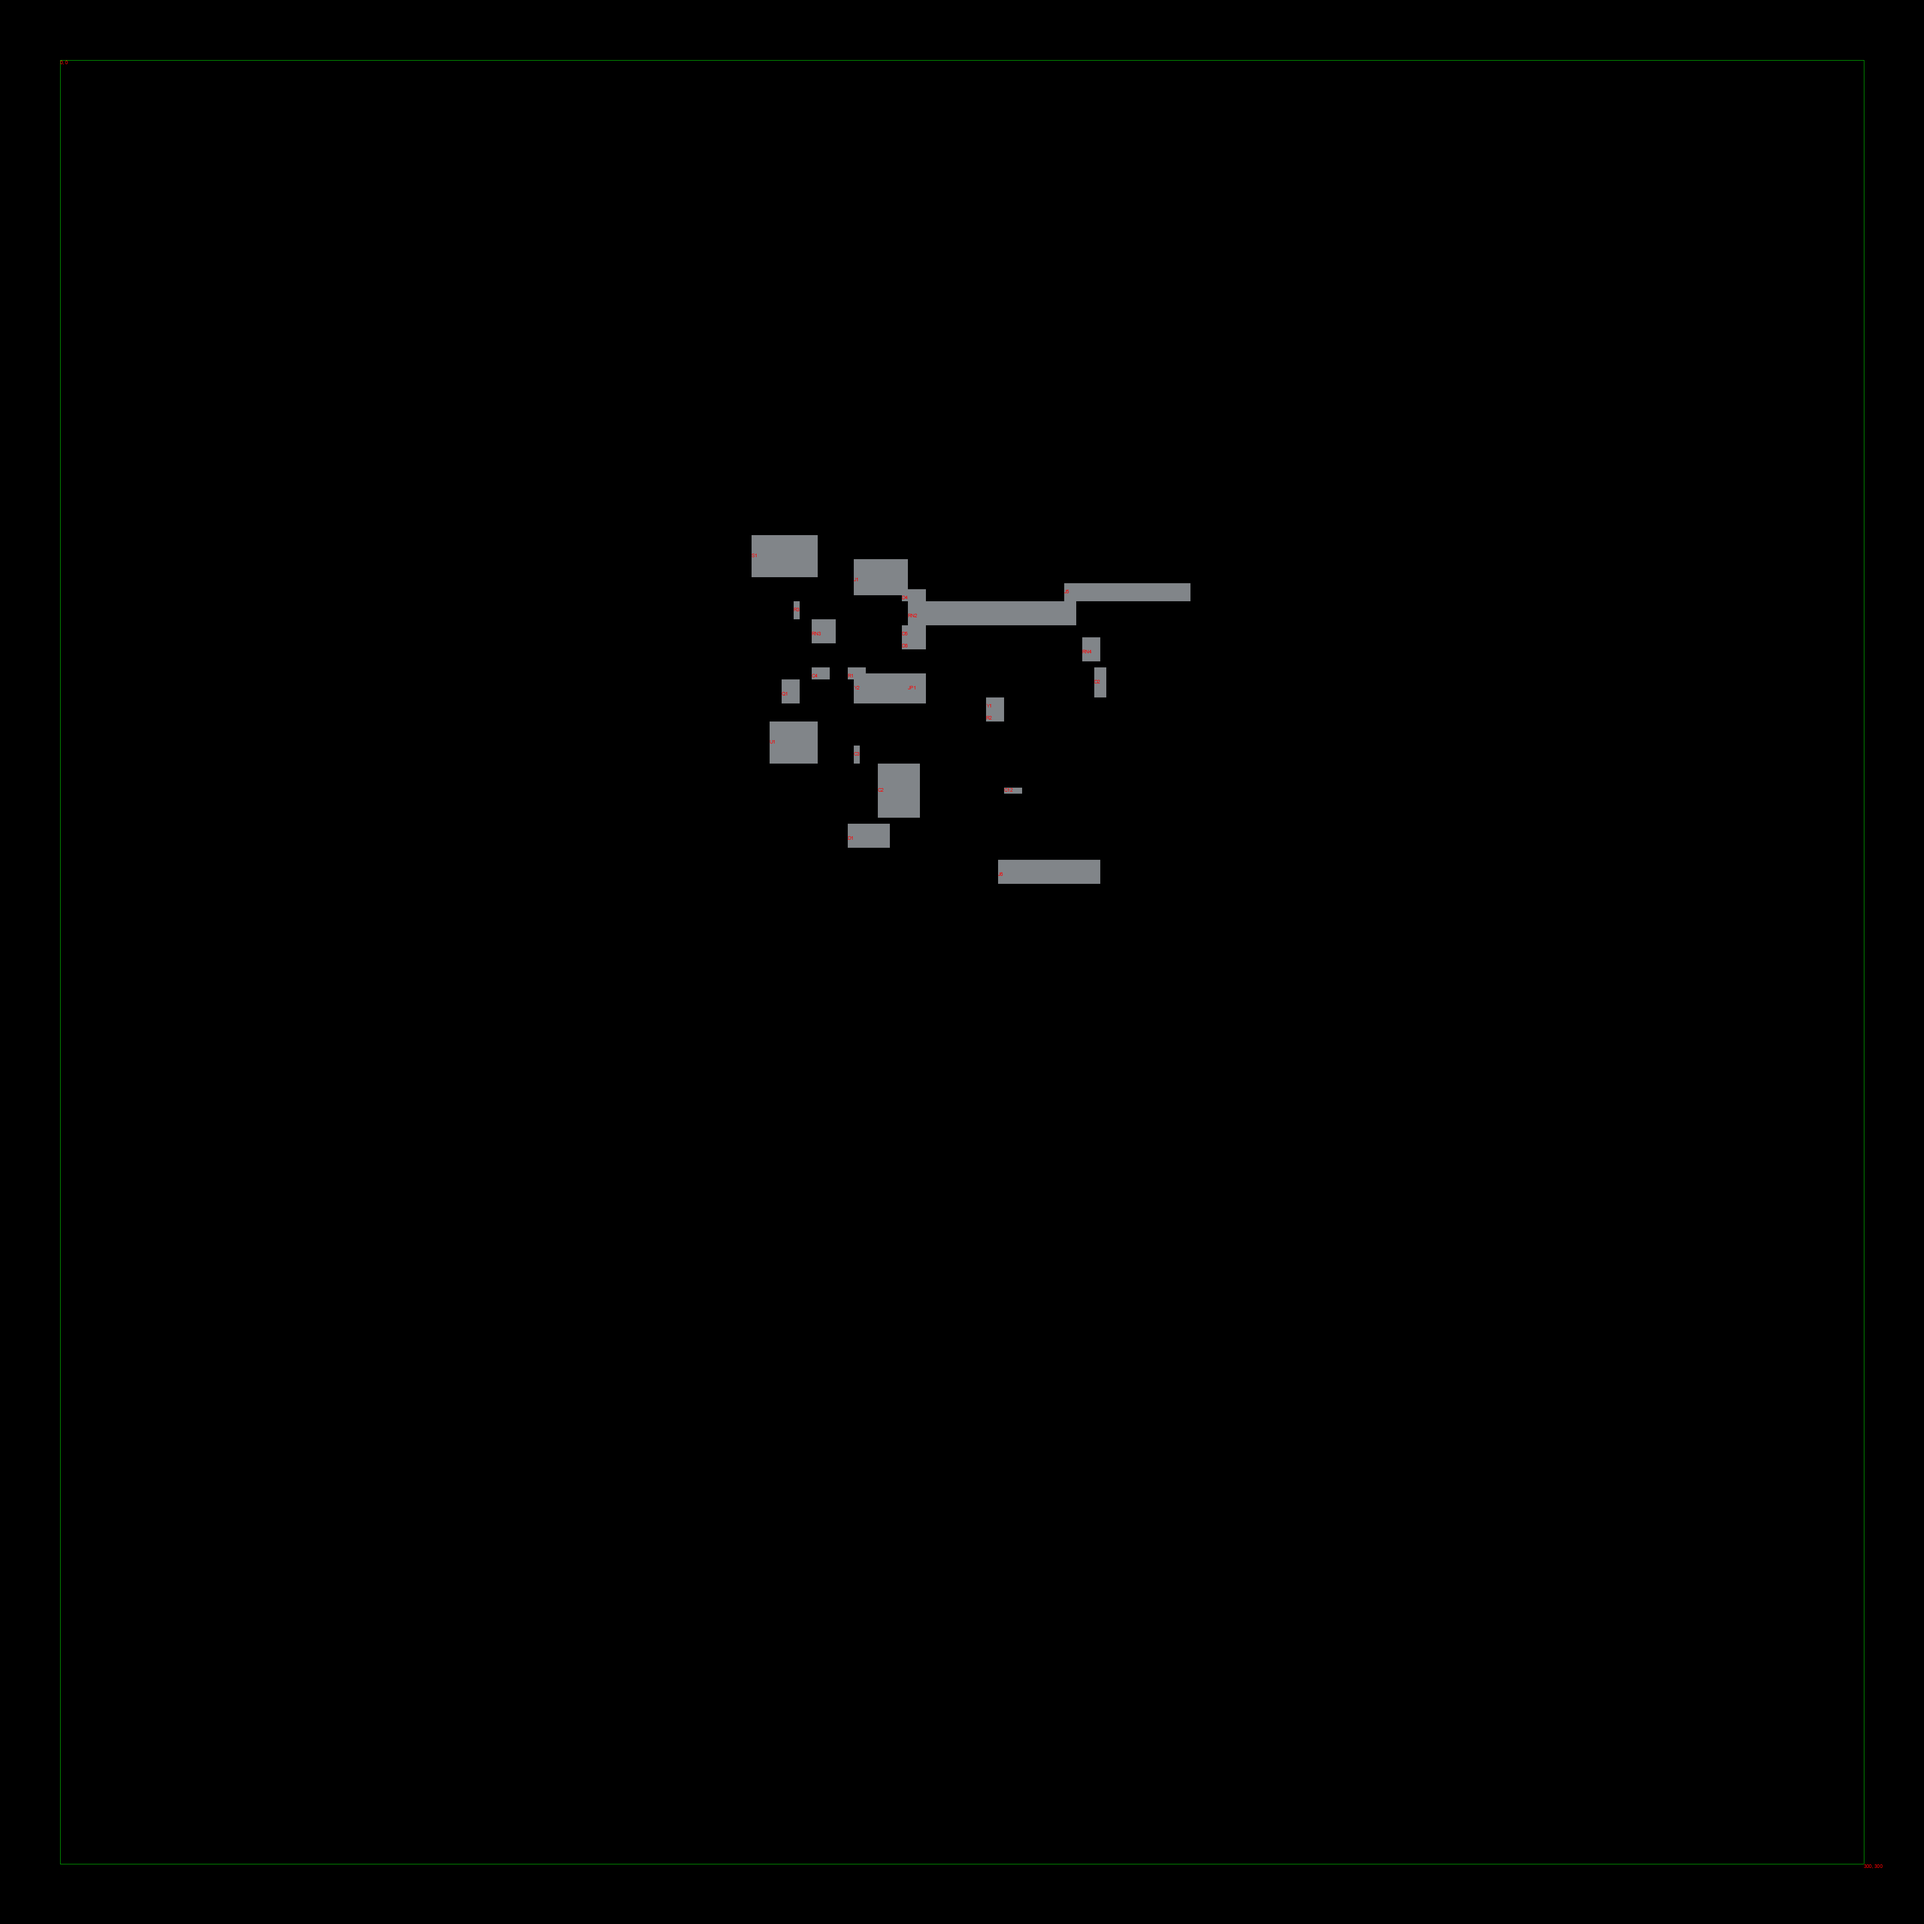
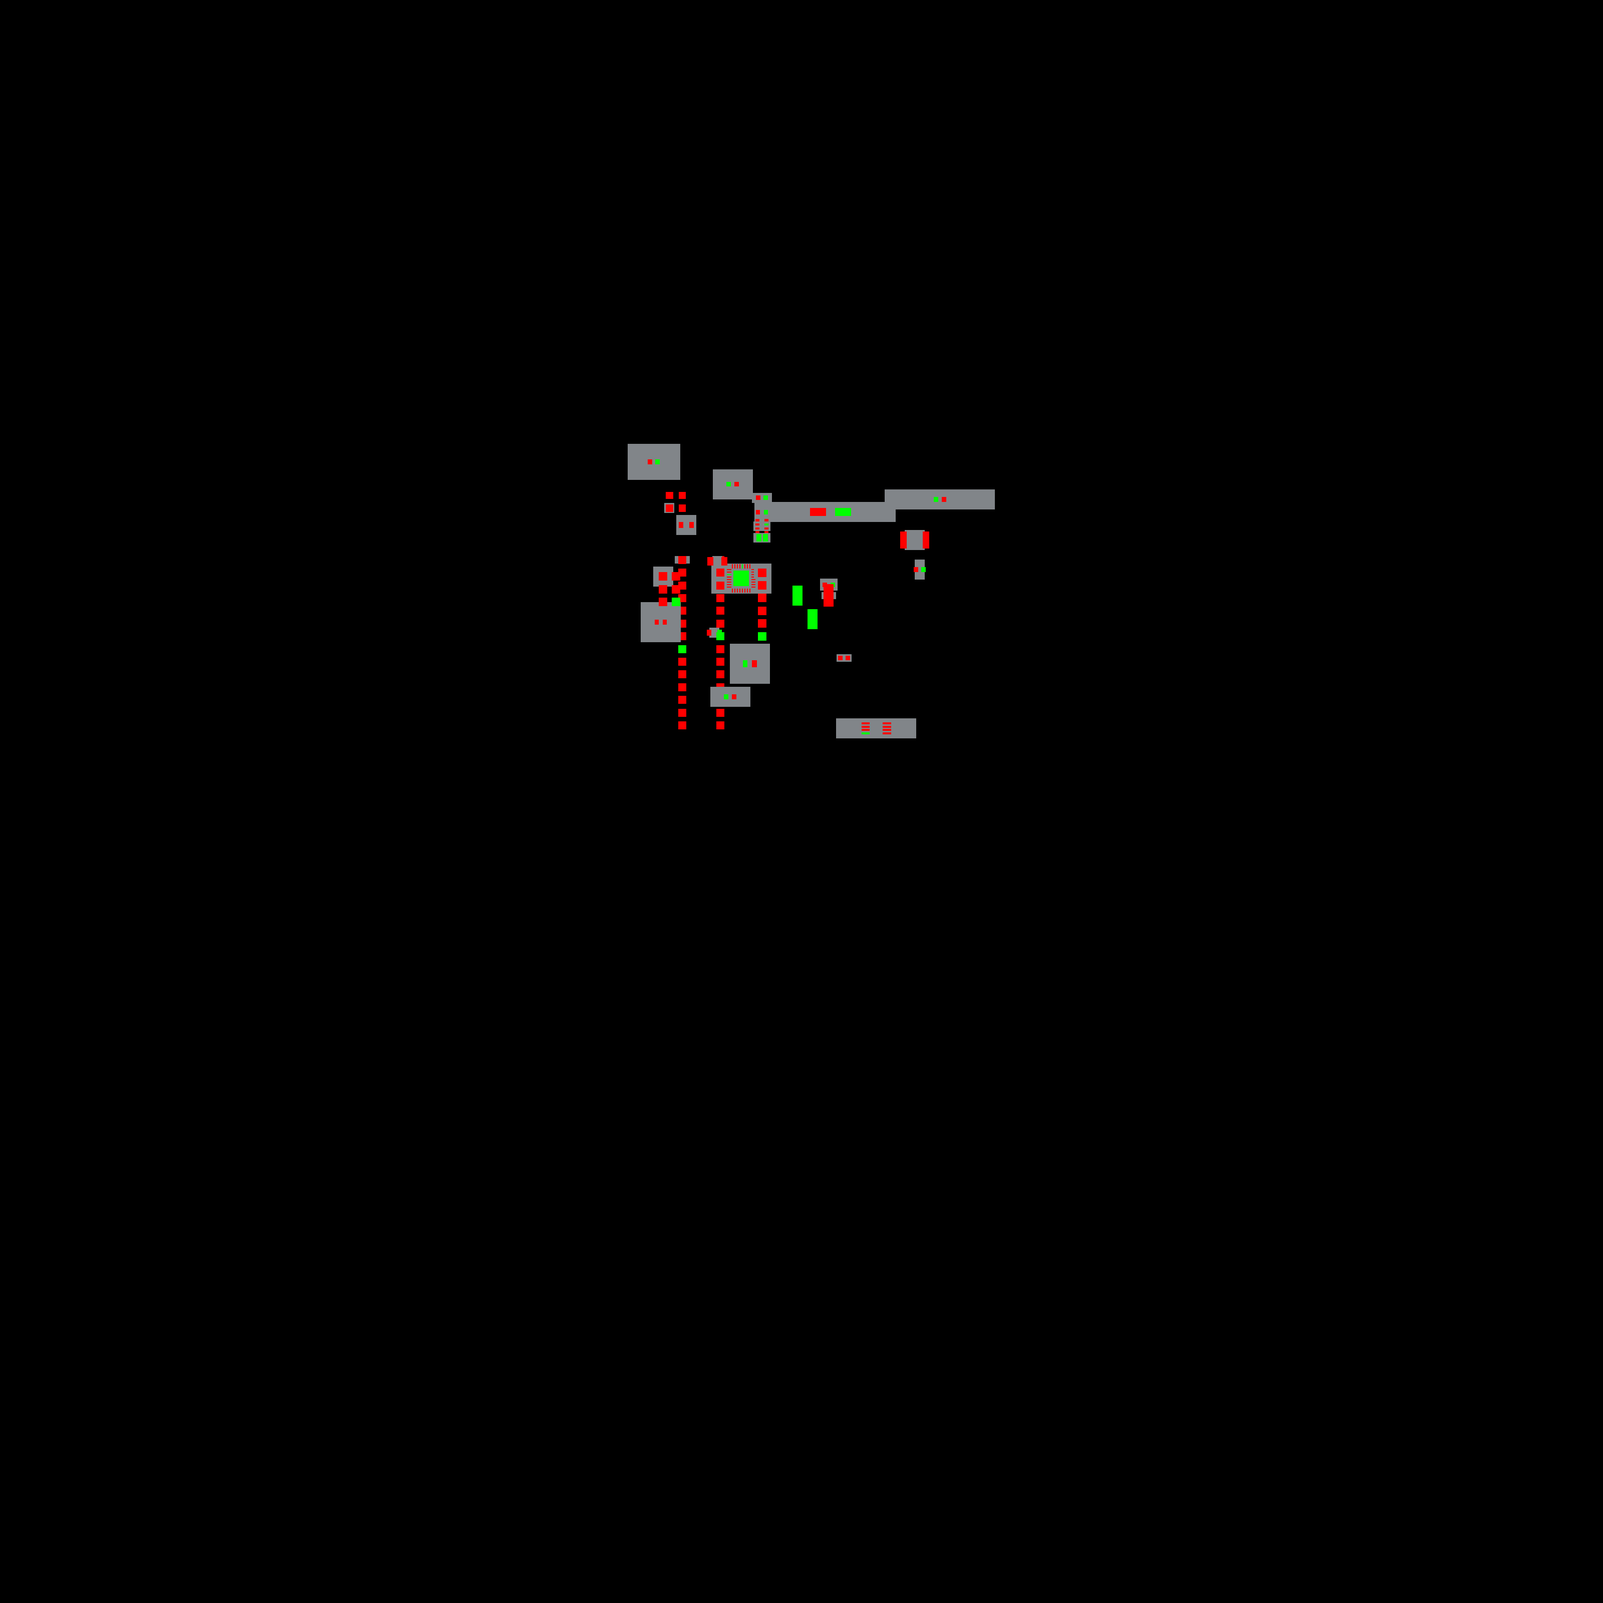
parsing is almost working :)

diff --git a/pcb-layout/src/main.rs b/pcb-layout/src/main.rs
@@ -7,6 +7,7 @@ mod kicad_parse;
 use kicad_parse::{parse_file};
 use rand::prelude::*;
 use plotters::prelude::*;
+use plotters::coord::types::RangedCoordf64;
 use colored::Colorize;
 fn random_rotation() -> i32 {
     // Get an RNG:
@@ -32,30 +33,65 @@ impl Individual {
         }
     }
     fn plot(&self, output_path: &str){
-        /* 
-        let padding: i32 = 10;
-        let scale: i32 = 12;
-        let pl_width:i32 = scale * (self.pl_area.get_width().to_i32().unwrap() + padding * 2);
-        let pl_height:i32 = scale * (self.pl_area.get_height().to_i32().unwrap() + padding * 2);
+        let padding  = 10.0;
+        let scale = 10.0;
+        
+        let pl_width = scale * (self.pl_area.get_width_fl() + padding * 2.0);
+        let pl_height = scale * (self.pl_area.get_height_fl() + padding * 2.0);
         let style = TextStyle::from(("sans-serif", scale).into_font()).color(&RED);
-        let mut backend: BitMapBackend<'_> = BitMapBackend::new(output_path, (pl_width.try_into().unwrap() , pl_height.try_into().unwrap()));
+        let mut backend  = BitMapBackend::new(output_path, (pl_width.floor() as u32,pl_height.round() as u32)).into_drawing_area();
+        let mut backend = backend.apply_coord_spec(Cartesian2d::<RangedCoordf64, RangedCoordf64>::new(
+        0f64..pl_width,
+        0f64..pl_height,
+        (0..pl_width.floor() as i32, 0..pl_height.round() as i32),
+        ));
+        let get_rect = |comp:& Component| {
+            //let x = 
+            let ul: (f64, f64)  =((comp.bbox.x1 + padding)*scale , (comp.bbox.y2 + padding)*scale);
+            let br: (f64, f64) = ((comp.bbox.x2+ padding)*scale, (comp.bbox.y1+ padding)*scale);
+            //let ee: EmptyElement<(f64, f64), _> = EmptyElement::at(ul) ;
+            Rectangle::new([ul,br], ShapeStyle::from(&RGBColor(129,133,137)).filled()) 
+            //+ Text::new(format!("({})",comp.refdes),(0.0, 0.0), ("sans-serif", 15.0).into_font())
+
+        };
+        let get_pin_rect = |comp:& Pin| {
+            //let x = 
+            let ul: (f64, f64)  =((comp.bbox.x1 + padding)*scale , (comp.bbox.y2 + padding)*scale);
+            let br: (f64, f64) = ((comp.bbox.x2+ padding)*scale, (comp.bbox.y1+ padding)*scale);
+            //let ee: EmptyElement<(f64, f64), _> = EmptyElement::at(ul) ;
+            if comp.net == 11{
+
+                Rectangle::new([ul,br], ShapeStyle::from(&GREEN).filled()) 
+            }else{
+
+                Rectangle::new([ul,br], ShapeStyle::from(&RED).filled()) 
+            }
+            //+ Text::new(format!("({})",comp.refdes),(0.0, 0.0), ("sans-serif", 15.0).into_font())
+
+        };
         //plot pcb
         let ul  =((self.pl_area.x1 + padding)*scale , (self.pl_area.y2 + padding)*scale);
         let br = ((self.pl_area.x2+ padding)*scale, (self.pl_area.y1+ padding)*scale);
         let ur  =((self.pl_area.x2 + padding)*scale , (self.pl_area.y2 + padding)*scale);
         let bl = ((self.pl_area.x1+ padding)*scale, (self.pl_area.y1+ padding)*scale);
-        let _ = backend.draw_rect(ul,br , &RGBAColor(0,255,0, 0.7), false);
-        let _ = backend.draw_text(&format!("{}, {}", self.pl_area.x2,self.pl_area.y2),&style, ur );
-        let _ = backend.draw_text(&format!("{}, {}", self.pl_area.x1, self.pl_area.y1),&style, bl );
+        //let _ = backend.draw_rect(ul,br , &RGBAColor(0,255,0, 0.7), false);
+        //let _ = backend.draw_text(&format!("{}, {}", self.pl_area.x2,self.pl_area.y2),&style, ur );
+        //let _ = backend.draw_text(&format!("{}, {}", self.pl_area.x1, self.pl_area.y1),&style, bl );
 
         for i in &self.comp_list{
-            let ul  =((i.bbox.x1 + padding)*scale , (i.bbox.y2 + padding)*scale);
-            let br = ((i.bbox.x2+ padding)*scale, (i.bbox.y1+ padding)*scale);
+            let ii= get_rect(i);
+            backend.draw(&ii);
+            for p in &i.pins{
+                let ii= get_pin_rect(p);
+                backend.draw(&ii);
+            }
+
+            /*  
             let style = TextStyle::from(("sans-serif", scale).into_font()).color(&RED);
             let text_loc = ((i.bbox.x1 + padding )*scale  , (i.bbox.centery + padding) * scale );
-            let _ = backend.draw_rect(ul,br , &RGBColor(129,133,137), true);
+            //let _ = backend.draw_rect(ul,br , &RGBColor(129,133,137), true);
             let _ = backend.draw_text(&i.refdes,&style, text_loc );
-            for p in &i.pins{
+            
                 
                 let ul  =((p.bbox.x1 + padding)*scale , (p.bbox.y2 + padding)*scale);
                 let br = ((p.bbox.x2+ padding)*scale, (p.bbox.y1+ padding)*scale);
@@ -63,16 +99,19 @@ impl Individual {
                 let text_loc = ((p.bbox.x1 + padding )*scale  , (p.bbox.centery + padding) * scale );
                 if p.net != 0{
 
-                    let _ = backend.draw_rect(ul,br , &RGBColor(0,255,1), true);
+                    //let _ = backend.draw_rect(ul,br , &RGBColor(0,255,1), true);
                 }
                 else{
-                    let _ = backend.draw_rect(ul,br , &RGBColor(255,1,1), true);
+                    //let _ = backend.draw_rect(ul,br , &RGBColor(255,1,1), true);
 
                 }
-                let _ = backend.draw_text(&format!("{}.{}", &p.refdes,&p.net) ,&style, text_loc );
-            }
+               let _ = backend.draw_text(&format!("{}.{}", &p.refdes,&p.net) ,&style, text_loc );
+               
+
+            }*/
         } 
         let _ = backend.present();
+        /* 
         */
     }
     

diff --git a/pcb-layout/src/kicad_parse.rs b/pcb-layout/src/kicad_parse.rs
@@ -1,5 +1,6 @@
 use core::net;
 use std::collections::BTreeMap;
+use std::f32::consts::PI;
 use std::path::Path;
 use std::vec;
 use std::time::Instant;
@@ -17,12 +18,16 @@ use std::path;
 fn parse_kicad_line_to_floats(passed_str: &str) -> (f64,f64){
     let x_y_str  = passed_str.trim().replace(")", "");
     let x_y_vec:Vec<&str>  = x_y_str.split(" ").collect();
+    if x_y_vec.len() < 3{
+        println!("{:?}", x_y_vec);
+    }
             
     return (x_y_vec[1].parse::<f64>().unwrap(), x_y_vec[2].parse::<f64>().unwrap());
 }
 pub fn parse_file() -> Placement {
     // --snip--
     let file_path = "..\\arduino_kicad\\Arduino UNO.kicad_pcb";
+    //let file_path = "..\\demo\\demo.kicad_pcb";
     println!("In file {file_path}");
 
     let contents = fs::read_to_string(file_path)
@@ -96,50 +101,75 @@ pub fn parse_file() -> Placement {
                 if line.contains(footprint_layer){
                     //parse and add start and end
                     let (x, y )= parse_kicad_line_to_floats(start);
-                    xs.push((x + x1).round());
-                    ys.push((y + y1).round());
+                    xs.push((x + x1));
+                    ys.push((y + y1));
                     let (x, y )= parse_kicad_line_to_floats(end);
-                    xs.push((x + x1).round());
-                    ys.push((y + y1).round());
+                    xs.push((x + x1));
+                    ys.push((y + y1));
 
                     //println!("{}, {}",x + x1 ,y+ y1);
                 }
             }
             //now its pin time
             //
-            while !line.contains("pad"){
+            if ! xs.is_empty() {
+                xs.sort_by(|a, b| a.partial_cmp(b).unwrap());
+                ys.sort_by(|a, b| a.partial_cmp(b).unwrap());
+                let mut comp_bbox = Bbox::new(xs[0] , xs[xs.len()-1] , ys[0] , ys[ys.len()-1] );
+                if rotation != 0{
+                    comp_bbox.rotate(rotation as f64);
+                }
+            let mut pin_vec: Vec<Pin> = Vec::new();
+            //outer pin loop
+            while !line.contains("model") && !line.starts_with("\t)"){
+
+            while !line.contains("pad "){
                 line  = content_iter.next().unwrap();
+                if line.contains("model")|| line.starts_with("\t)"){break;}
             }
-            if line.contains("pad"){
+            if line.contains("model") || line.starts_with("\t)"){break;}
+            if line.contains("pad "){
                 line  = content_iter.next().unwrap();
                 //println!("{}", line);
                 let (mut px1 , mut py1) = parse_kicad_line_to_floats(line);
-                px1 += x1;
-                py1 += y1;
+                px1 += comp_bbox.centerx;
+                py1 += comp_bbox.centery;
                 line  = content_iter.next().unwrap();
                 let (mut px2 , mut py2) = parse_kicad_line_to_floats(line);
-                px2 += px1;
+                px1 -= px2/2.0;
+                py1 -= py2/2.0;
+
+                px2 += px1 ;
                 py2 += py1;
                 //let px2 =
                 //println!("{}, {}", px2, py2);
-                while !line.contains("net"){
+                while !line.contains("net") && !line.starts_with("\t\t)"){
+                    //println!("{}", line);
                     line  = content_iter.next().unwrap();
                 }
-                let net_v: Vec<&str> = line.trim().split(" ").collect();
-                let net = net_v[1].parse::<i32>().unwrap();
-                
+                let mut net = 0;
+                if !line.starts_with("\t\t)"){
+                    let net_v: Vec<&str> = line.trim().split(" ").collect();
+                    net = net_v[1].parse::<i32>().unwrap();
+
+                }                
+                let pbbox = Bbox::new(px1, px2, py1, py2);
+                let mut pin = Pin{
+                    refdes:refdes.to_string(), 
+                    net:net, 
+                    bbox:pbbox
+                };
+                pin_vec.push(pin.clone());
+
+            }
+            
             }
 
-            xs.sort_by(|a, b| a.partial_cmp(b).unwrap());
-            ys.sort_by(|a, b| a.partial_cmp(b).unwrap());
-            if ! xs.is_empty() {
             //println!("{}, {}",, ys[ys.len()-1]);
-                let comp_bbox = Bbox::new(xs[0] , xs[xs.len()-1] , ys[0] , ys[ys.len()-1] );
-                let mut comp: Component = Component{refdes:refdes.to_string(), bbox: comp_bbox, rotation: 0, pins: Vec::new()};
-                if rotation != 0{
-                    comp.rotate_comp(rotation);
-                }
-                //println!("{:?}", comp);
+                
+                let mut comp: Component = Component{refdes:refdes.to_string(), bbox: comp_bbox, rotation: 0, pins: pin_vec};
+                
+                //println!("{:?}", comp.pins.len());
                 comp_vec.push(comp);
             }
             xs.clear();

diff --git a/pcb-layout/src/plcmnt.rs b/pcb-layout/src/plcmnt.rs
@@ -29,13 +29,13 @@ impl Bbox {
             x2,
             y1,
             y2,
-            centerx: x1 + ((x1 - x2).abs() / 2),
-            centery: y1 + ((y1 - y2).abs() / 2),
+            centerx: x1 + ((x1 - x2).abs() / 2.0),
+            centery: y1 + ((y1 - y2).abs() / 2.0),
         }
     }
     pub fn recenter(&mut self) {
-        self.centerx = self.x1 + ((self.x1 - self.x2).abs() / 2);
-        self.centery = self.y1 + ((self.y1 - self.y2).abs() / 2);
+        self.centerx = self.x1 + ((self.x1 - self.x2).abs() / 2.0);
+        self.centery = self.y1 + ((self.y1 - self.y2).abs() / 2.0);
     }
     
     pub fn get_width_fl(&self) -> f64 {
@@ -220,11 +220,11 @@ impl Component {
         }
         self.bbox.recenter();
     }
-    pub fn get_width(&self) -> usize {
-        self.bbox.get_width()
+    pub fn get_width(&self) -> f64 {
+        self.bbox.get_width_fl()
     }
-    pub fn get_height(&self) -> usize {
-        self.bbox.get_height()
+    pub fn get_height(&self) -> f64 {
+        self.bbox.get_height_fl()
     }
     pub fn move_to(&mut self, x: f64, y: f64) {
         self.bbox.recenter();
